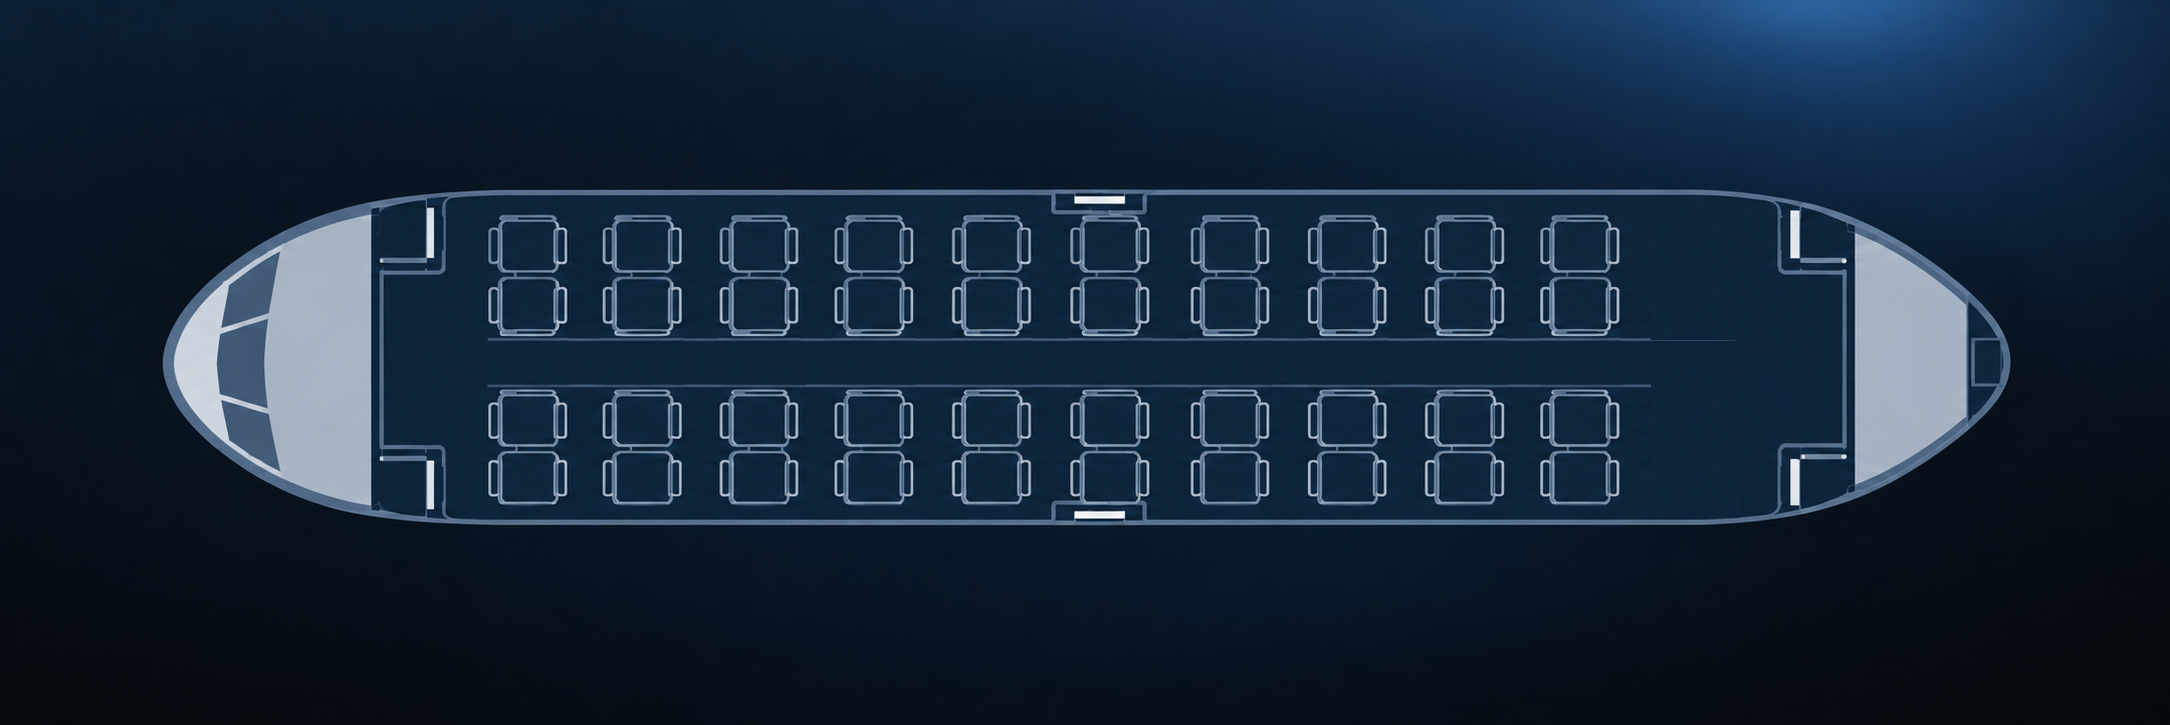
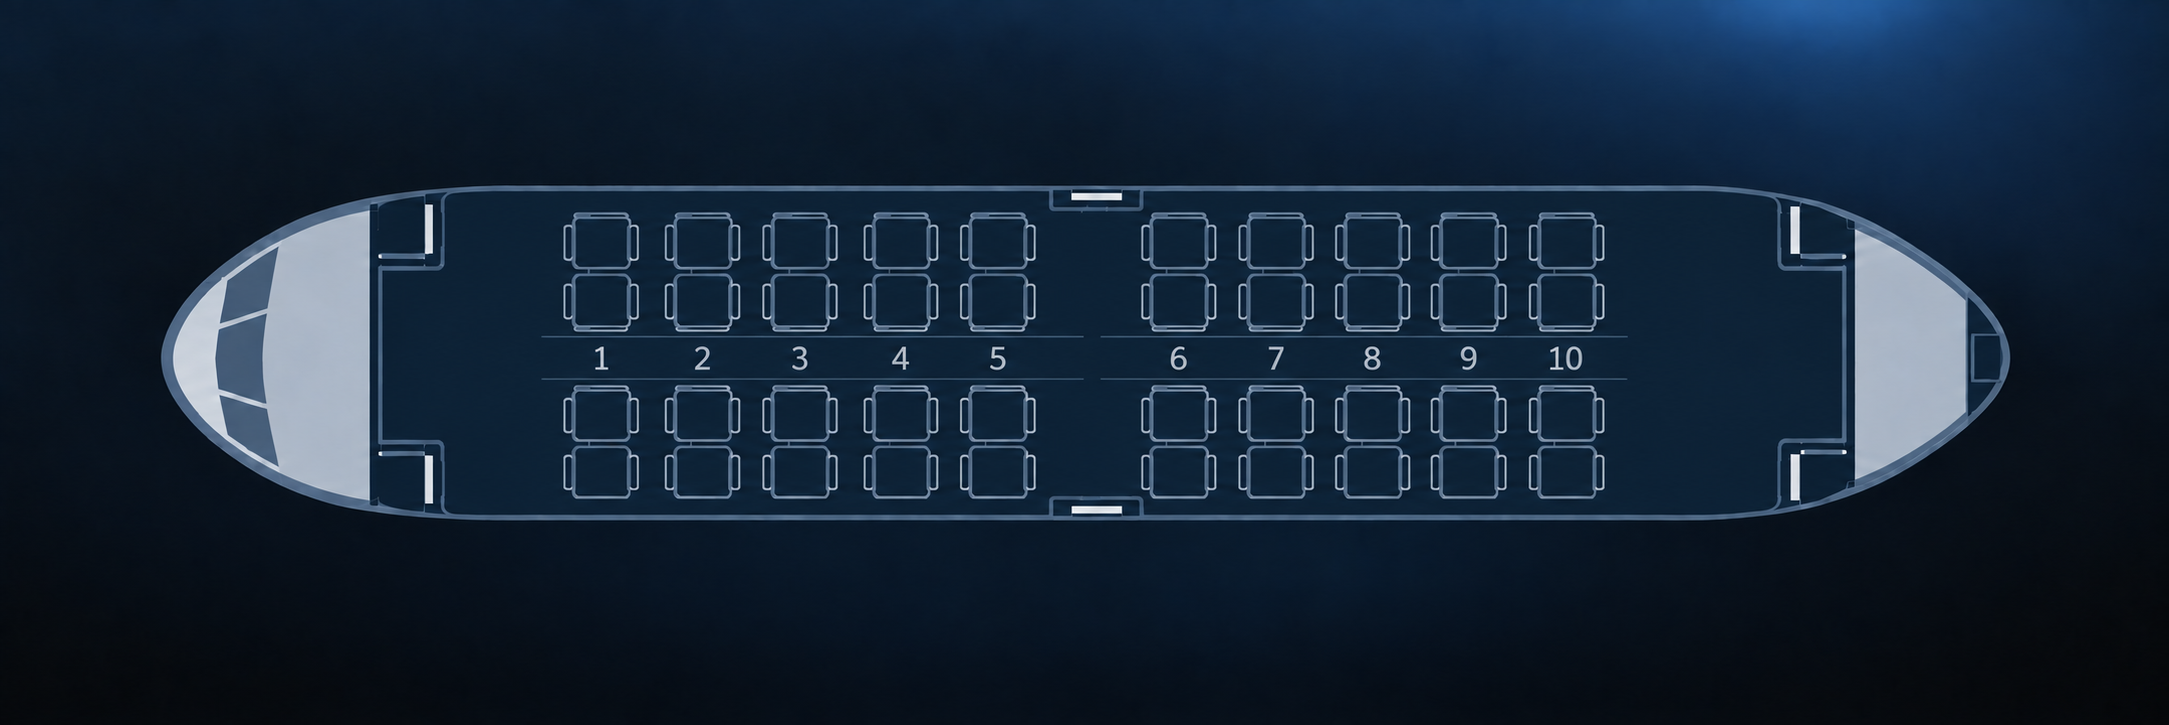
spot: aereo con 10 file numerate (immagine di Michele), posti sovrapposti ricalcolati sullo stacco tra la fila 5 e la 6

Changed region(s): [[0.0618, 0.2428, 0.9267, 0.7283], [0.8958, 0.5159, 0.9267, 0.6069]]

diff --git a/costi-fasi-multi/spot.html b/costi-fasi-multi/spot.html
@@ -158,13 +158,14 @@ td.scarto { color:var(--arancio); }
 const qs = new URLSearchParams(location.search);
 const AUTO = qs.get('auto') === '1';
 // posti dell'aereo: 40, i primi 10 si riempiono (oro), gli altri 30 restano vuoti (arancio) al passo 2
-// l'aereo: immagine di Michele (aereo.png, 2170×725) con i posti sovrapposti in SVG: 10 file da 4 (2 + corridoio + 2), l'undicesima fila è stata coperta nell'immagine, coordinate nei pixel dell'immagine
+// l'aereo: immagine di Michele (aereo.png, 2170×725) con i posti sovrapposti in SVG: 10 file numerate da 4 (2 + corridoio + 2), coordinate nei pixel dell'immagine
 const NS = 'http://www.w3.org/2000/svg', el = (t, a) => { const e = document.createElementNS(NS, t); for (const [k, v] of Object.entries(a)) e.setAttribute(k, v); return e; };
-const svg = el('svg', { viewBox: '0 0 2170 725' });
+const svg = el('svg', { viewBox: '0 0 2169 725' });
 const seats = [];
+const COLX = [600, 700, 799, 900, 999, 1177, 1275, 1375, 1473, 1569];   // centri delle 10 file (immagine 2169×725, stacco tra la 5 e la 6)
 for (let f = 0; f < 10; f++) for (let r = 0; r < 4; r++) {
-  const cx = 532 + f * 116.3, cy = [241, 304, 419, 482][r];
-  const rect = el('rect', { class: 'posto', x: cx - 34, y: cy - 28, width: 68, height: 56, rx: 10 }); svg.append(rect); seats.push(rect);
+  const cx = COLX[f], cy = [241, 301, 418, 477][r];
+  const rect = el('rect', { class: 'posto', x: cx - 31, y: cy - 25, width: 62, height: 50, rx: 9 }); svg.append(rect); seats.push(rect);
 }
 const img = document.createElement('img'); img.src = 'aereo.png'; img.alt = 'Aereo visto dall’alto, 40 posti';
 document.getElementById('posti').append(img, svg);
